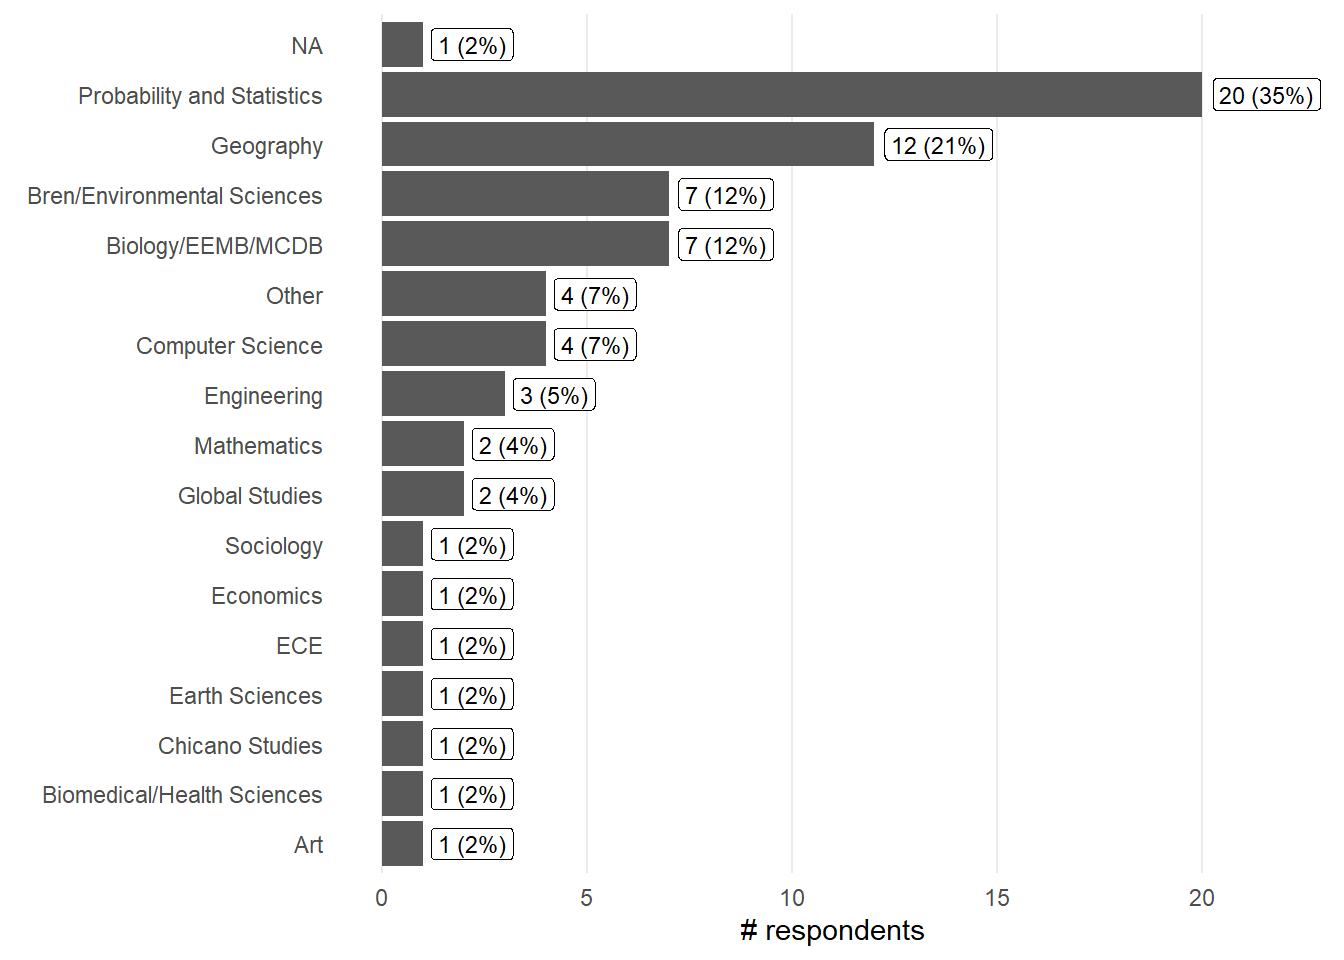
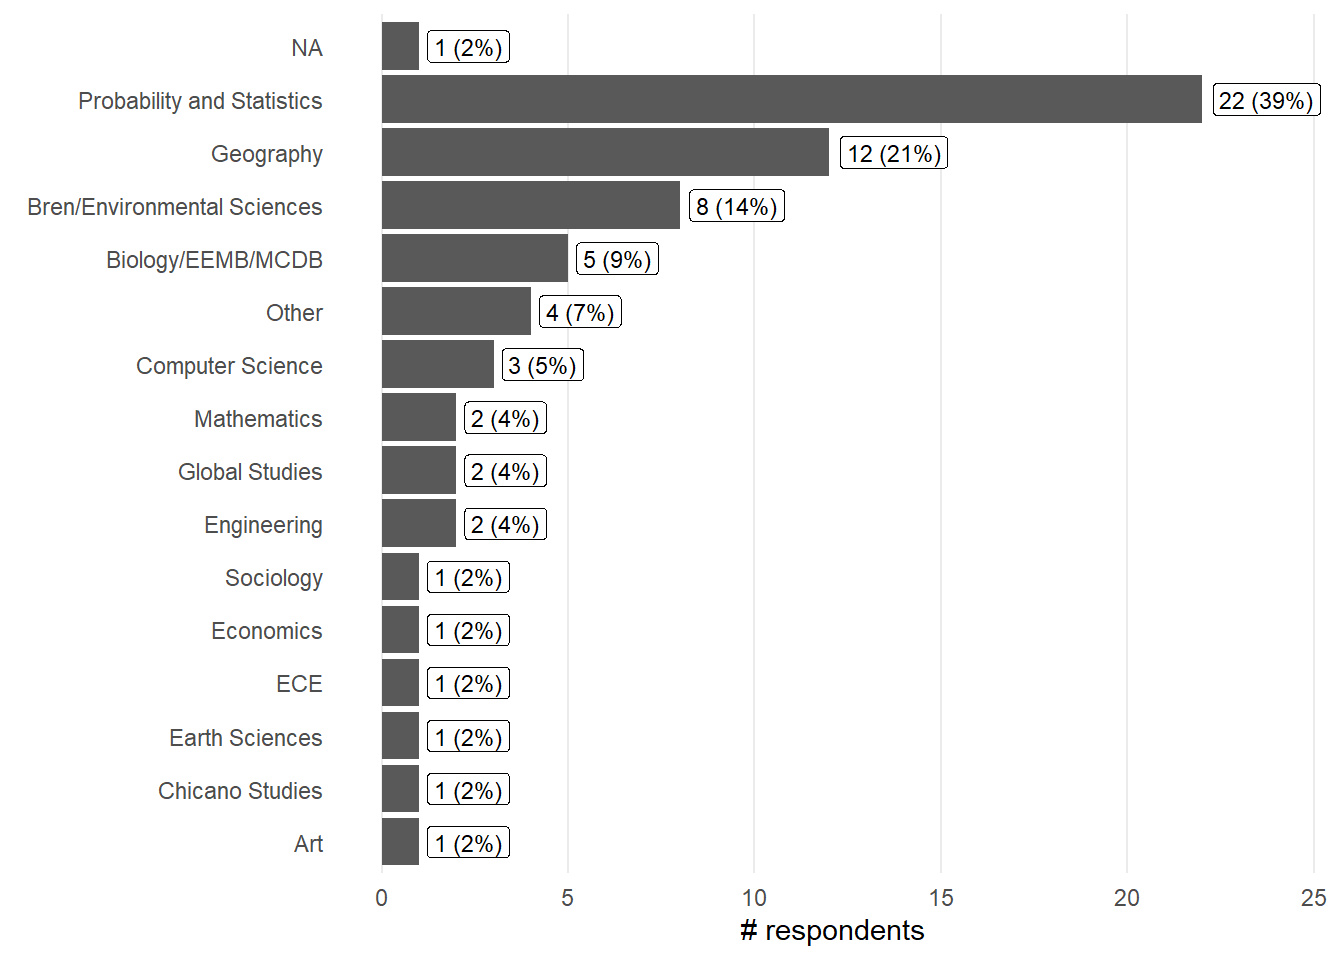
updates with w25 workshop responses, day of geospatial

diff --git a/docs/2025-winter-all.html b/docs/2025-winter-all.html
@@ -236,7 +236,7 @@ pre > code.sourceCode > span > a:first-child::before { text-decoration: underlin
 <div class="value-box-showcase html-fill-item html-fill-container"><svg xmlns="http://www.w3.org/2000/svg" viewbox="0 0 16 16" class="bi bi-people-fill " style="height:1em;width:1em;fill:currentColor;vertical-align:-0.125em;" aria-hidden="true" role="img"><path d="M7 14s-1 0-1-1 1-4 5-4 5 3 5 4-1 1-1 1H7Zm4-6a3 3 0 1 0 0-6 3 3 0 0 0 0 6Zm-5.784 6A2.238 2.238 0 0 1 5 13c0-1.355.68-2.75 1.936-3.72A6.325 6.325 0 0 0 5 9c-4 0-5 3-5 4s1 1 1 1h4.216ZM4.5 8a2.5 2.5 0 1 0 0-5 2.5 2.5 0 0 0 0 5Z"></path></svg></div>
 <div class="value-box-area html-fill-item html-fill-container">
 <p class="value-box-title">Total responses</p>
-<p class="value-box-value">40</p>
+<p class="value-box-value">43</p>
 </div>
 </div>
 </div>
@@ -250,7 +250,7 @@ pre > code.sourceCode > span > a:first-child::before { text-decoration: underlin
 <div class="value-box-showcase html-fill-item html-fill-container"><svg xmlns="http://www.w3.org/2000/svg" viewbox="0 0 16 16" class="bi bi-arrows-expand-vertical " style="height:1em;width:1em;fill:currentColor;vertical-align:-0.125em;" aria-hidden="true" role="img"><path d="M8 15a.5.5 0 0 1-.5-.5v-13a.5.5 0 0 1 1 0v13a.5.5 0 0 1-.5.5ZM.146 8.354a.5.5 0 0 1 0-.708l2-2a.5.5 0 1 1 .708.708L1.707 7.5H5.5a.5.5 0 0 1 0 1H1.707l1.147 1.146a.5.5 0 0 1-.708.708l-2-2ZM10 8a.5.5 0 0 1 .5-.5h3.793l-1.147-1.146a.5.5 0 0 1 .708-.708l2 2a.5.5 0 0 1 0 .708l-2 2a.5.5 0 0 1-.708-.708L14.293 8.5H10.5A.5.5 0 0 1 10 8Z"></path></svg></div>
 <div class="value-box-area html-fill-item html-fill-container">
 <p class="value-box-title">Both pre- and post-</p>
-<p class="value-box-value">5</p>
+<p class="value-box-value">6</p>
 </div>
 </div>
 </div>
@@ -264,7 +264,7 @@ pre > code.sourceCode > span > a:first-child::before { text-decoration: underlin
 <div class="value-box-showcase html-fill-item html-fill-container"><svg xmlns="http://www.w3.org/2000/svg" viewbox="0 0 16 16" class="bi bi-arrow-left-short " style="height:1em;width:1em;fill:currentColor;vertical-align:-0.125em;" aria-hidden="true" role="img"><path fill-rule="evenodd" d="M12 8a.5.5 0 0 1-.5.5H5.707l2.147 2.146a.5.5 0 0 1-.708.708l-3-3a.5.5 0 0 1 0-.708l3-3a.5.5 0 1 1 .708.708L5.707 7.5H11.5a.5.5 0 0 1 .5.5z"></path></svg></div>
 <div class="value-box-area html-fill-item html-fill-container">
 <p class="value-box-title">Only pre-workshop</p>
-<p class="value-box-value">32</p>
+<p class="value-box-value">34</p>
 </div>
 </div>
 </div>
@@ -586,6 +586,14 @@ pre > code.sourceCode > span > a:first-child::before { text-decoration: underlin
 <tr class="odd">
 <td style="text-align: left;">2025-01-23-ucsb-geospatial</td>
 <td style="text-align: left;">Ability to handle high resolution spatial data within R</td>
+</tr>
+<tr class="even">
+<td style="text-align: left;">2025-01-23-ucsb-geospatial</td>
+<td style="text-align: left;">how to maneuver Geospatial data</td>
+</tr>
+<tr class="odd">
+<td style="text-align: left;">2025-01-23-ucsb-geospatial</td>
+<td style="text-align: left;">I hope to become more confident in working with raster data. I am hoping that I can take what I learn during this workshop and make maps/figures using the information that I gain during the workshop.</td>
 </tr>
 </tbody>
 </table>

diff --git a/docs/2025-01-23-winter-geospatial.html b/docs/2025-01-23-winter-geospatial.html
@@ -7,7 +7,7 @@
 <meta name="viewport" content="width=device-width, initial-scale=1.0, user-scalable=yes">
 
 
-<title>UCSB Carpentry Workshop Survey Responses - Winter 2025 Python Workshop Survey Responses</title>
+<title>UCSB Carpentry Workshop Survey Responses - Winter 2025 Geospatial Workshop Survey Responses</title>
 <style>
 code{white-space: pre-wrap;}
 span.smallcaps{font-variant: small-caps;}
@@ -152,7 +152,7 @@ pre > code.sourceCode > span > a:first-child::before { text-decoration: underlin
 
 <header id="title-block-header" class="quarto-title-block default">
 <div class="quarto-title">
-<h1 class="title">Winter 2025 Python Workshop Survey Responses</h1>
+<h1 class="title">Winter 2025 Geospatial Workshop Survey Responses</h1>
 </div>
 
 
@@ -259,7 +259,7 @@ pre > code.sourceCode > span > a:first-child::before { text-decoration: underlin
 <div class="value-box-showcase html-fill-item html-fill-container"><svg xmlns="http://www.w3.org/2000/svg" viewbox="0 0 16 16" class="bi bi-people-fill " style="height:1em;width:1em;fill:currentColor;vertical-align:-0.125em;" aria-hidden="true" role="img"><path d="M7 14s-1 0-1-1 1-4 5-4 5 3 5 4-1 1-1 1H7Zm4-6a3 3 0 1 0 0-6 3 3 0 0 0 0 6Zm-5.784 6A2.238 2.238 0 0 1 5 13c0-1.355.68-2.75 1.936-3.72A6.325 6.325 0 0 0 5 9c-4 0-5 3-5 4s1 1 1 1h4.216ZM4.5 8a2.5 2.5 0 1 0 0-5 2.5 2.5 0 0 0 0 5Z"></path></svg></div>
 <div class="value-box-area html-fill-item html-fill-container">
 <p class="value-box-title">Total survey responses</p>
-<p class="value-box-value">8</p>
+<p class="value-box-value">11</p>
 </div>
 </div>
 </div>
@@ -287,7 +287,7 @@ pre > code.sourceCode > span > a:first-child::before { text-decoration: underlin
 <div class="value-box-showcase html-fill-item html-fill-container"><svg xmlns="http://www.w3.org/2000/svg" viewbox="0 0 16 16" class="bi bi-arrow-left-short " style="height:1em;width:1em;fill:currentColor;vertical-align:-0.125em;" aria-hidden="true" role="img"><path fill-rule="evenodd" d="M12 8a.5.5 0 0 1-.5.5H5.707l2.147 2.146a.5.5 0 0 1-.708.708l-3-3a.5.5 0 0 1 0-.708l3-3a.5.5 0 1 1 .708.708L5.707 7.5H11.5a.5.5 0 0 1 .5.5z"></path></svg></div>
 <div class="value-box-area html-fill-item html-fill-container">
 <p class="value-box-title">Only pre-workshop</p>
-<p class="value-box-value">8</p>
+<p class="value-box-value">11</p>
 </div>
 </div>
 </div>
@@ -488,6 +488,14 @@ pre > code.sourceCode > span > a:first-child::before { text-decoration: underlin
 <tr class="even">
 <td style="text-align: left;">2025-01-23-ucsb-geospatial</td>
 <td style="text-align: left;">Ability to handle high resolution spatial data within R</td>
+</tr>
+<tr class="odd">
+<td style="text-align: left;">2025-01-23-ucsb-geospatial</td>
+<td style="text-align: left;">how to maneuver Geospatial data</td>
+</tr>
+<tr class="even">
+<td style="text-align: left;">2025-01-23-ucsb-geospatial</td>
+<td style="text-align: left;">I hope to become more confident in working with raster data. I am hoping that I can take what I learn during this workshop and make maps/figures using the information that I gain during the workshop.</td>
 </tr>
 </tbody>
 </table>
